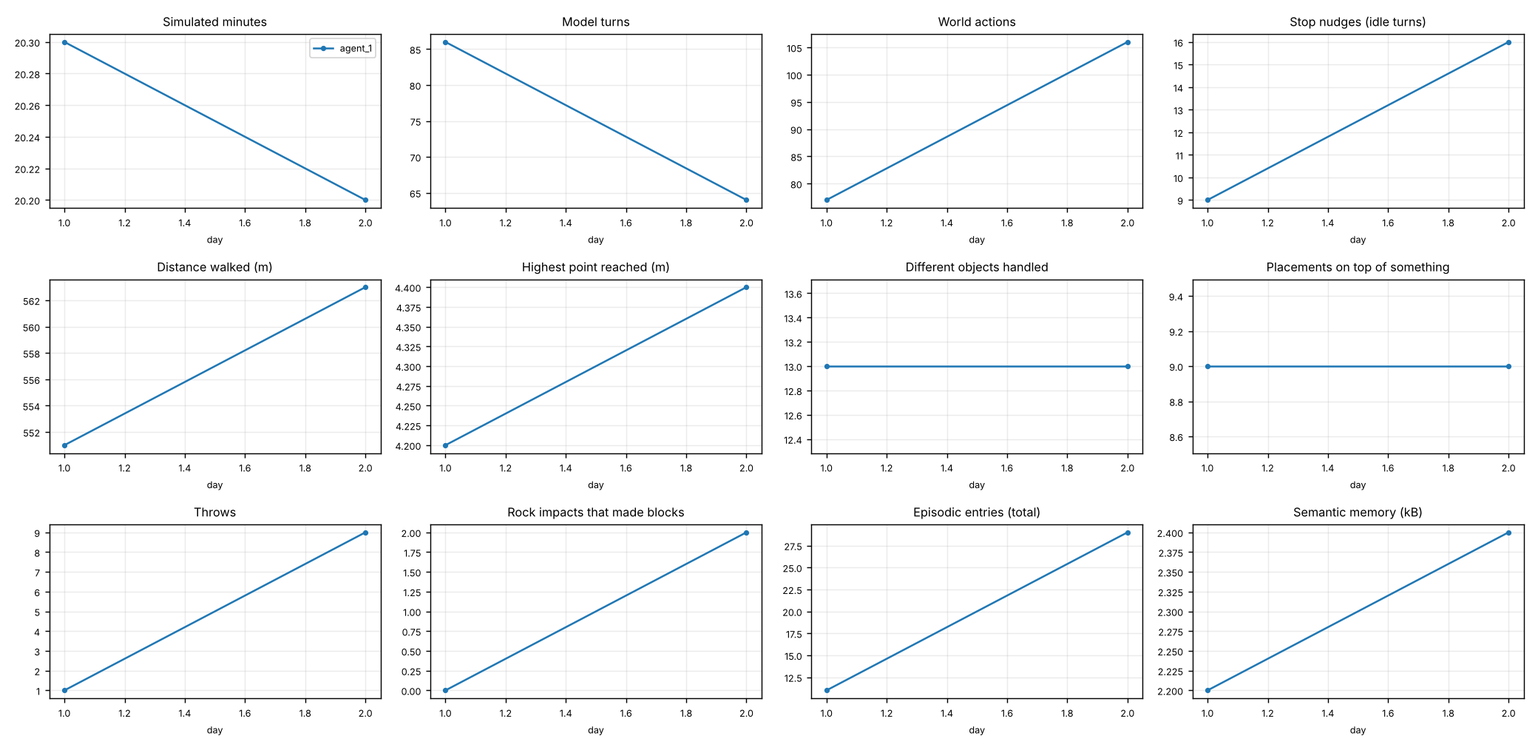
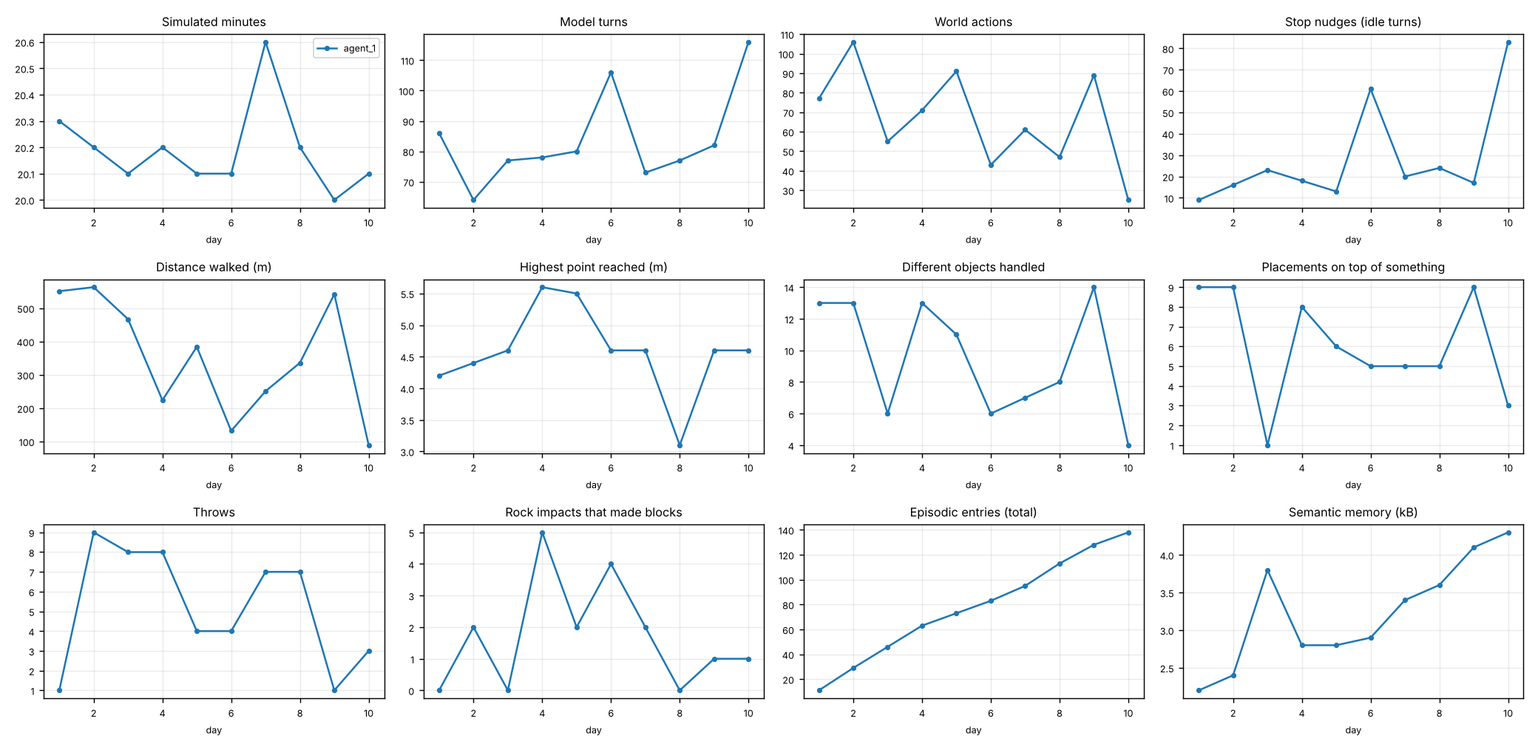
Update trial agent evolution report to 10 days
Claude-Session: https://claude.ai/code/session_01F6htCL5qaHSLW1cPSXXm9X

diff --git a/runs/pilot-20261024-005431/evolution/evolution.md b/runs/pilot-20261024-005431/evolution/evolution.md
@@ -1,18 +1,26 @@
 # How the agents' free play evolves: `pilot-20261024-005431`
 
-2 free-play days across 1 agents. Every number comes from replaying the logged actions; memory figures are the agent's own files at the end of each day.
+10 free-play days across 1 agents. Every number comes from replaying the logged actions; memory figures are the agent's own files at the end of each day.
 
 ![Evolution](evolution.png)
 
 ## agent_1
 
 - First rock impact that made blocks: day 2
-- First time on top of the Spire: never
+- First time on top of the Spire: day 5
 
 | day | min | turns | actions | idle | walked m | max height | objects | stacked | throws | impacts | episodic | semantic kB | Spire | ended |
 |---|---|---|---|---|---|---|---|---|---|---|---|---|---|---|
 | 1 | 20.3 | 86 | 77 | 9 | 551 | 4.2 | 13 | 9 | 1 | 0 | 11 | 2.2 |  | session time up |
 | 2 | 20.2 | 64 | 106 | 16 | 563 | 4.4 | 13 | 9 | 9 | 2 | 29 | 2.4 |  | session time up |
+| 3 | 20.1 | 77 | 55 | 23 | 467 | 4.6 | 6 | 1 | 8 | 0 | 46 | 3.8 |  | session time up |
+| 4 | 20.2 | 78 | 71 | 18 | 224 | 5.6 | 13 | 8 | 8 | 5 | 63 | 2.8 |  | session time up |
+| 5 | 20.1 | 80 | 91 | 13 | 384 | 5.5 | 11 | 6 | 4 | 2 | 73 | 2.8 | yes | session time up |
+| 6 | 20.1 | 106 | 43 | 61 | 132 | 4.6 | 6 | 5 | 4 | 4 | 83 | 2.9 |  | session time up |
+| 7 | 20.6 | 73 | 61 | 20 | 251 | 4.6 | 7 | 5 | 7 | 2 | 95 | 3.4 |  | session time up |
+| 8 | 20.2 | 77 | 47 | 24 | 336 | 3.1 | 8 | 5 | 7 | 0 | 113 | 3.6 |  | session time up |
+| 9 | 20.0 | 82 | 89 | 17 | 542 | 4.6 | 14 | 9 | 1 | 1 | 128 | 4.1 |  | session time up |
+| 10 | 20.1 | 116 | 25 | 83 | 89 | 4.6 | 4 | 3 | 3 | 1 | 138 | 4.3 |  | session time up |
 
 ### Diary (episodic summaries added each day)
 
@@ -48,3 +56,288 @@
 - Finished a 9-block tower with a stair and 2-block column, using all 12 blocks.
 - Reorganized semantic memory before the reset.
 - Threw the Ring at speed 30 and got no debris.
+
+**Day 3**
+- Confirmed the world reset again and threw Block_4 gently.
+- Threw a block at a placed block and it sailed past without a knock.
+- Threw Block_4 point-blank at Block_12 and it still passed through untouched.
+- Threw the Rock at Block_12 and it stopped against it without moving it.
+- Walked east to the island edge and was stopped at x≈32.
+- Probed the west and south edges of the island.
+- Freed myself from a stuck spot and found the north edge near z=-32.
+- Rewrote semantic memory into a clean, consolidated form.
+- Threw the Rock at speed 30 at Block_12 and it just landed on top.
+- Climbed to the summit of Peak and found nothing there.
+- Placed Block_3 on the summit of Peak.
+- Threw Block_3 off Peak and it traveled about 9 units.
+- Placed Block_3 with a 45-degree yaw to test rotation.
+- Tested whether a rotated block has a wider footprint by placing Block_5 beside it.
+- Carried the Ring to Peak and set it on top of Block_3.
+- Threw the Rock at speed 30 hoping for debris and got none.
+- Threw the Rock steeply downward at speed 30 and got no debris again.
+
+**Day 4**
+- New session: world reset again, same layout. Observed only; nothing new tried.
+- Threw the Rock flat east at speed 30 from Hill_2 and got 2 ImpactBlocks; found a debris recipe.
+- Picked up both ImpactBlocks and stacked them into a 2-piece tower at (26,*,-8).
+- Threw the Rock flat from low ground at speed 30: 8.6 units, no debris. Debris seems to need a drop from height or a longer flight.
+- Threw the Rock east from Peak summit at speed 30 and got 4 ImpactBlocks; launch height seems to drive debris count.
+- Threw the Rock from Peak summit at speed 20: another 4 ImpactBlocks, so speed is not the key; 10 debris pieces now exist near (26,0.4,12).
+- Built a small 2-piece debris tower at (22,*,12) on the Peak slope (first place failed Occupied by terrain, retried 0.5 higher worked).
+- Debris tower at (22,*,12) now 5 pieces tall (y up to ~3.1); some pickups return NoBlock for no clear reason, just pick another piece.
+- Debris tower at (22,*,12) is now 7 pieces tall (top ~3.9).
+- Fetched the Rock and threw it again from Peak summit east at speed 25 to farm more debris (result not yet checked).
+- My Rock throw hit the debris tower and knocked it apart; learned ImpactBlocks are movable by the Rock.
+- Threw an ImpactBlock east at speed 20 and it disappeared from the world.
+- Rewrote semantic memory into a clean consolidated form with a Debris section.
+- Stood on a block atop Peak and threw the Rock: only 2 debris, so height doesn't scale the count (looks random 2-4).
+- Cleaned semantic memory: merged the height-doesn't-matter correction into the Debris recipe.
+- Another summit Rock throw (dir 1,0.1,-0.4) gave 4 more debris; ~14 pieces made this session with no cap seen. Memory files updated before reset.
+- Carried an ImpactBlock to Peak summit and placed it on top of Block_3, mixing big and small material.
+
+**Day 5**
+- New session: world reset again, same layout; reviewed memory and observed only.
+- Threw the Rock flat east from Peak summit and got 4 ImpactBlocks again.
+- Placed one ImpactBlock on the Peak slope at (23,*,9); first try was Occupied, 0.7 higher worked.
+- Stacked three ImpactBlocks into a tower at (23,*,9), top at y~2.07.
+- Capped the debris tower at (23,*,9) with the Ring.
+- Threw the Ring at the debris tower and it passed through, leaving the tower intact.
+- Tried to climb the Spire mesa with a stair block and reached its east edge but could not walk onto it.
+- Built a 6-block staircase and climbed onto the Spire mesa; the top is empty.
+- Threw the Rock west from the Spire top and got just 1 ImpactBlock at the island rim.
+- Rewrote semantic memory cleanly before the reset, adding a Climbing section.
+
+**Day 6**
+- New session: world reset again, same layout; observed only.
+- Threw Rock from Peak summit with upward angle (1,0.4,0) speed 30: landed ~(29,-0.3,12), only 1 ImpactBlock; flat throws seem better (2-4).
+- Threw Rock south from Peak summit (0,0.1,1) speed 30: 4 ImpactBlocks near (12,0.3,26); direction doesn't matter, flat works.
+- Built a 4-piece debris tower at (12,*,25.5) on flat ground south of Peak (z=22 was Occupied by the slope).
+- Capped the debris tower at (12,*,25.5) with the Rock; it holds.
+- Placed Block_8 on top of the Rock-capped debris tower at (12,*,25.5): debris, rock and block stack together.
+- Dismantled the cap, threw Rock from Peak at the 4-piece debris tower: top piece knocked off, 3 new ImpactBlocks spawned, lower 3 stayed.
+- Threw the Rock point-blank south at the tower; it vanished from the world (lost for this session) along with one ImpactBlock.
+- Rebuilt the tower with Block_8 on top of 3 debris pieces; session wrapped up, Rock lost until reset.
+- Consolidated semantic memory before reset (flat throws any direction, tower stacking, Rock-loss warning).
+
+**Day 7**
+- New session: world reset again, same layout; observed only.
+- Threw the Rock west from Peak summit and got 2 ImpactBlocks.
+- Stacked the two new ImpactBlocks into a tower at (3,*,12) on the Peak slope.
+- Capped the debris tower with Block_8 and hit it with the Rock; the tower did not move.
+- Swapped the cap for the Ring and hit the tower with the Rock: nothing toppled.
+- Threw Block_8 at 45 degrees from the Peak summit and it flew ~17 units.
+- Threw Block_8 at slope 0.6 from the summit and it flew ~17.8 units, about the same as at 45 degrees.
+- Threw the Rock north at slope 0.7 from the summit and got 2 ImpactBlocks ~15 away.
+- Stacked the two new ImpactBlocks into a tower at (12,*,-4.5) on Hill_2.
+- Capped the Hill_2 debris tower with the Rock.
+- Picked up the Ring from the tower to compare its throw range; reset arrived before throwing.
+- Threw the Ring at 45 degrees from the summit and it disappeared from the world.
+
+**Day 8**
+- New session: world reset again, same layout; observed only.
+- Picked up Block_4 and placed it at (-0.2,2.5,-18); simple routine, nothing new learned.
+- Threw Block_12 at 45 degrees (dir 0,1,1) speed 20 from low ground (-9.2,2,-16): landed ~13 away on Hill_3 at (-9.2,3.9,-3.1). Arcs from low ground reach ~13, beyond flat 9-11.
+- Updated semantic memory with the 45-degree low-ground arc range (~13) and noted Rock-capped towers hold.
+- Threw Block_4 at 45 degrees speed 40 from (-0.2,1.8,-15.5): landed ~13.3 away, same as speed 20. Speed confirmed irrelevant for range.
+- Threw Block_4 at slope 0.5 (dir 0,0.5,1) speed 20 from (-0.2,2.5,-5): landed 13.1 away, identical to the 45-degree throws. Range seems capped ~13 for slopes 0.5-1 from low ground.
+- Threw Block_4 at slope 0.25 speed 20 from (-0.2,2.6,5) toward -z: landed 11.1 away. So low-ground range: slope 0.25 ~11, slopes 0.5 and 1.0 ~13.
+- Consolidated semantic memory: folded throw range-by-slope findings into the Throwing section.
+- Threw Block_4 east from (28,0,0) toward the island edge: it stopped at x=32 (the bound) instead of vanishing. Edge acts as a wall for blocks; vanishing items (Rock, Ring, ImpactBlocks) must have another cause.
+- Updated semantic memory: bounds are a wall for thrown Blocks; reframed the vanishing-items open question.
+- Threw the Ring east (dir 1,0.7,0) from (27,0.2,4.7) toward the edge: it vanished, whereas Block_4 stopped at x=32 the same way. Ring vanishes where a Block stays; maybe it slips past/under the bound. Ring lost until reset.
+- Threw the Rock east (dir 1,0.7,0) from (28,-0.1,-6.3) toward the edge: it vanished with no debris. Confirmed: Ring and Rock vanish when thrown into the edge/bound while Blocks stay. Rock and Ring both lost until reset.
+- Consolidated semantic memory with an Edge rule (Ring/Rock vanish at the bound, Blocks stay).
+- With the Rock lost, stacked Block_6 on Block_5 on Hill_1 at (10,*,-15.6) to make a 2-block tower.
+- Added Block_3 to the Hill_1 tower at (10,*,-15.6): now 3 blocks.
+- Verified by observe that the 3-block tower at (10,*,-15.6) stands at y 2.8/3.8/4.8. Session state: Rock and Ring lost, tower built; memory files up to date.
+- Added Block_12 to the Hill_1 tower at (10,*,-15.6): now 4 blocks.
+- Added Block_10 to the Hill_1 tower at (10,*,-15.6): now 5 blocks (top ~y 6.8). Session also: range-by-slope throws, Ring and Rock vanish at the bound (Blocks stay). Memory files up to date before reset.
+
+**Day 9**
+- New session: world reset, same layout; picked up Block_4, nothing new learned.
+- Placed Block_4 at (-3,3,-10); routine, no new findings. Memory is up to date.
+- Stacked Block_12 on Block_4 at (-3,*,-10): 2-block tower. Nothing new learned.
+- Added Block_3 to the tower at (-3,*,-10): now 3 blocks (verified 2 by observe first). Nothing new learned.
+- Added Block_5 to the tower at (-3,*,-10): now 4 blocks. Nothing new learned.
+- Added Block_6 to the tower at (-3,*,-10): now 5 blocks (top ~y 7.7). Nothing new learned.
+- Observed: 5-block tower at (-3,*,-10) verified standing, y 2.69..6.69 at 1.0 spacing.
+- Added Block_10 to the tower at (-3,*,-10): now 6 blocks (top ~y 7.7). Nothing new learned.
+- Tower at (-3,*,-10) reached 7 blocks. Placing 8.7 high from ground failed OutOfRange; placed Block_7 as a step at (-1,*,-10), jumped on it, then placement worked.
+- Tried an 8th block at y~9.7 from the step: OutOfRange again. A single step is not enough above 7 blocks; would need a 2-block stair.
+- Built a 1-2 stair (x=0.5 and x=-1 columns) beside the tower and placed the 8th block at (-3,~9.7,-10). Stair of 1,2 gives enough reach for 8 blocks.
+- Placed the 9th block (Block_11) at (-3,~10.7,-10) from the 2-high stair while jumping. All 12 blocks used. Got wedged between tower and step once; move_to south freed me.
+- Verified 9-block tower (top y 10.69). Threw Rock from summit west-ish (-1,0.1,0.3) speed 25: 2 ImpactBlocks near (0,2.3,15.5).
+- Picked up ImpactBlock_1 to try capping the 9-block tower at (-3,*,-10) via the stair; reset arrived first. Session: built 9-block tower with 1-2 stair, learned step/stair/jump-place reach tricks.
+- Tried to cap the 9-block tower with an ImpactBlock at y 11.4 from the 2-high stair: OutOfRange. 9 blocks (top 10.7) is the reach limit with this stair.
+
+**Day 10**
+- New session: world reset, same layout; observed only.
+- Threw Rock from summit toward Spire (-1,0.1,-0.3) speed 25: landed ~(1,3,8.7), 2 ImpactBlocks. Consistent with recipe; nothing new.
+- Stacked the two new ImpactBlocks into a 2-piece tower at (5,*,9) on the Peak slope; both places succeeded first try.
+- Capped the (5,*,9) debris tower with the Rock; place succeeded.
+- Observed: Rock-capped 2-piece debris tower at (5,*,9) stands (y 3.71/4.11/4.61). Session otherwise routine.
+- Threw Block_10 from (-5,2.4,5) at slope 0.5 toward the Rock-capped tower: landed only ~7.5 away at (1.7,3.3,7.7), short of the tower (rising Peak slope cuts the arc). Tower untouched.
+- Got wedged against my own tower at (5,*,9) (move_to did nothing); jump + move_to away freed me. Threw Block_10 from the summit at the tower: landed beside it at (6.1,4.3,9.5), tower untouched. Blocks can't topple towers.
+- Placed Block_10 on top of the Rock cap at (5,5.4,9): tower is now debris, debris, Rock, Block.
+- Verified by observe: 4-part mixed tower at (5,*,9) stands (debris 3.71, 4.11, Rock 4.61, Block_10 5.41).
+- Session wrap-up: built Rock+Block-capped debris tower at (5,*,9), learned slope-short throws and the wedge fix again. Memory up to date before reset.
+
+### Rules written down, by day
+
+Extracted automatically from the notes: each rule-like line, when it first appeared, revisions, and whether it later left the notes.
+
+| day | new | revised | left notes | held at end of day |
+|---|---|---|---|---|
+| 1 | 18 | 4 | 5 | 13 |
+| 2 | 16 | 9 | 14 | 15 |
+| 3 | 16 | 10 | 9 | 22 |
+| 4 | 16 | 13 | 22 | 16 |
+| 5 | 9 | 13 | 8 | 17 |
+| 6 | 8 | 12 | 6 | 19 |
+| 7 | 29 | 8 | 25 | 23 |
+| 8 | 7 | 7 | 8 | 22 |
+| 9 | 3 | 0 | 0 | 25 |
+| 10 | 1 | 0 | 0 | 26 |
+
+**Day 1: new rules**
+- [belief] move_to near a block then pickup(block position) works; place(position) drops held item. *(left notes on day 1)*
+- [belief] Island bounds (move_to clamps): x -28..32, z -32..29. Start (0,1,-22). Terrain: Peak, Spire mesa, Hill_1..4. *(revised 4x; left notes on day 7)*
+- [belief] place has a short range (~5-6 units); OutOfRange means walk closer. Placing on an occupied spot fails; blocks stack if placed ~1 unit above another (they settle physically). *(left notes on day 1)*
+- [belief] Blocks stack with 1.0 spacing; 9-block towers are stable. *(revised 3x; left notes on day 4)*
+- [belief] A 6-block tower is stable, and placing from the ground at y up to 8 works from ~2.5 units away (reach isn't height-limited so far). *(left notes on day 1)*
+- [belief] Place reach is a 3D distance (~7 units max?): y=9 from 2.5 horizontal away failed OutOfRange; moving to ~1.7 horizontal and y=8.6 worked. For tall towers, stand right beside it. *(left notes on day 1)*
+- [belief] Blocks stack at 1.0 spacing (1.1 for side by side); 9-block towers stable. Tall towers: 1-high stair + 2-block column beside, place from the top. 12 blocks = 9 tower + 2 column + 1 stair. *(revised 4x; left notes on day 5)*
+- [mistake] place fails "Occupied" if target overlaps terrain or my body. Place ~0.6 higher, stand >=2 units away. *(revised 3x; left notes on day 4)*
+- [belief] Staircase climbing: each jump() + move_to onto a block adjacent and 1 higher works, so a 2-high column plus a 1-high stair lets me reach ~1 unit higher per column block. Fetch-and-stack total: all 12 blocks used (9 in tower, 2 as stairs, 1 as column). *(left notes on day 1)*
+- [belief] Loose: 12 unanchored 1x1x1 Blocks, a Ring (~24.9,0.7,4.7), a Rock (~16.5,2.6,-6.3). *(revised 2x; left notes on day 7)*
+- [belief] pickup needs me within ~1-2 units; one item held at a time. Occasional NoBlock: retry or pick another. *(revised 5x; left notes on day 7)*
+- [belief] move_to is near-instant, walks terrain, blocked by standing blocks/piles/cliffs (debris towers too). Climb 1-high: jump(), move_to top. Descending is free. *(revised 5x; left notes on day 7)*
+- [belief] place(pos) drops the held item. Fails with OutOfRange if the 3D distance is too large (about 5-7 units); walk closer. *(left notes on day 2)*
+- [belief] 12 blocks were enough for: 9-block tower at ~(3,*,-13), a 2-block column at (4.5,*,-12), and a stair at (5.7,*,-12). *(left notes on day 2)*
+- [belief] Haven't examined Ring or Rock (was walking to the Ring); try picking up and throwing them. *(left notes on day 2)*
+- [belief] Untested: throw tool, how high the tower can go, whether the world persists across sessions. *(left notes on day 2)*
+- [belief] pickup works on the Ring. throw({direction:[-1,0.5,0], speed:10}) sent the Ring ~9.5 units horizontally (landed on a hill, y 3.35). Direction need not be normalized. Distance grows with speed. *(left notes on day 2)*
+- [belief] Tower of 9 blocks stood to y=10.56 with no collapse. *(left notes on day 2)*
+
+**Day 2: new rules**
+- [belief] World resets each session (blocks/ring/rock back at original spots). Rock is pickup-able; throw([0,1,1], speed 15) sent it ~13 units forward (landed on Peak). *(left notes on day 2)*
+- [belief] Rock at speed 30 spawns 1-3 ImpactBlock debris (0.4 size, persist); speeds 12-25 none; blocks and Ring never do. *(revised 2x; left notes on day 4)*
+- [belief] A Block thrown at speed 30, dir [-1,0.3,0] flew ~12 units with no debris (debris seems tied to the Rock, or to a harder impact). *(left notes on day 2)*
+- [belief] Rock thrown gently (speed 12) made no debris, so debris likely needs a high-speed impact (speed 30 did it; the block at 30 didn't, so maybe Rock-specific too). *(left notes on day 2)*
+- [belief] Rock at speed 20 (dir [0,0.2,-1]) also made no debris; threshold, if any, is between 20 and 30 (or depends on landing/angle). *(left notes on day 2)*
+- [belief] Rock at speed 30 with flat angle [0,0.2,-1] also spawned debris (1 ImpactBlock). So debris is speed-driven (threshold between 20 and 30), count varies. Debris persists on the island. *(left notes on day 2)*
+- [belief] Rock at speed 25 made no debris; debris threshold is between 25 and 30 (speed 30 worked twice). *(left notes on day 2)*
+- [belief] Throw range is effectively capped ~11-15 units: a Block at speed 50 only went ~11 units, and no debris. Debris appears only for the Rock at speed ~30 (blocks never made any). *(left notes on day 2)*
+- [mistake] Wedged between a block/tower and mesa: jump(), then move_to away. Stand >=3 from bases. *(revised 4x; left notes on day 7)*
+- [belief] Ground placement failed at y=8.9 (6-block tower on a hill, top at 7.9). Fix: one step block beside the tower, move_to ~1.5 units from it, jump(), move_to its top; then place worked. *(left notes on day 2)*
+- [belief] place(pos) fails OutOfRange beyond ~6.5 units above my feet. Placing a block under me lifts me. *(revised 2x; left notes on day 4)*
+- [belief] World RESETS each session (builds and debris gone, Rock restored). Re-observe first. *(revised 3x; left notes on day 7)*
+- [belief] Direction need not be normalized. Range capped ~11-15 units regardless of speed (block at 50 ~11; speed 10 ~10.7; Ring at 10 ~9.5; Rock at 15 ~13). *(revised 1x; left notes on day 4)*
+- [hypothesis] Is debris Rock-specific? (try the Ring at 30). Try speed 27-28 for the exact threshold. *(left notes on day 3)*
+- [hypothesis] Can blocks be thrown to knock down a tower? Can I build something taller than 9-12 blocks (only 12 blocks exist; ImpactBlocks are 0.4 size and could be extra material)? *(left notes on day 3)*
+- [belief] Ring thrown at speed 30 went ~6.5 units (lands on hill) with no debris, so debris is Rock-only. *(left notes on day 3)*
+
+**Day 3: new rules**
+- [belief] Thrown block at speed 15, nearly flat, aimed at a block 5.5 units away: it passed the target without moving it (landed 4 units beyond). Either it flew over (thrown from head height) or no collision. Untested: aim lower/pitch down. Speed 10 flat throw went ~10.7 units. *(left notes on day 3)*
+- [belief] Point-blank throw (slightly downward, speed 15) at an adjacent block also left it untouched; the projectile passed through to 7 units beyond. Thrown blocks seem not to collide with other blocks, so knocking towers over by throwing doesn't work. (Standing blocks DO block my own move_to.) *(left notes on day 3)*
+- [belief] Rock thrown flat at speed 15 stopped dead against a placed block (landed just in front of it), and the block didn't budge. So the Rock collides with blocks but can't push them; earlier thrown blocks passed through. Placed blocks are effectively immovable by throws. *(left notes on day 3)*
+- [belief] Island edge: move_to toward x=40/60 stops at x≈31.9 (y≈-0.7, ground slopes down). Can't leave the island; boundary is ~32 on +x, further than the ±25 item spread. *(left notes on day 3)*
+- [belief] Edges (move_to clamps): +x ≈ 32, -x ≈ -28, +z ≈ 29 (y drops to ~-0.8 at edge). Island is roughly a 60-unit disc, slightly offset east. *(left notes on day 3)*
+- [belief] z edge ≈ -32 (y≈-0.7). Island ≈ x -28..32, z -32..29. Being stuck next to a block: jump() then move_to works again. *(left notes on day 3)*
+- [belief] Direction need not be normalized. Range ~10-15 regardless of speed. Blocks/Ring pass through placed blocks and debris, never make debris. Rock stops against placed blocks without moving them. *(revised 2x; left notes on day 7)*
+- [hypothesis] Can ImpactBlock debris be used as extra building material? *(left notes on day 4)*
+- [hypothesis] Does a Rock at speed 30 push a block? Is there anything off the island or at the Peak top? *(left notes on day 4)*
+- [belief] Rock at speed 30 thrown at a placed block from 4 units: block unmoved, no debris, Rock ended up resting on top of it. Placed blocks are immovable even at max speed. (Debris likely needs a long flight/terrain impact.) *(left notes on day 4)*
+- [belief] Peak summit (12,4.59,12) is reachable by move_to; nothing special there (no entities), just the highest ground. *(left notes on day 4)*
+- [belief] Block thrown flat at speed 20 from Peak's edge went ~9 units horizontally (landed on the downslope); range stays ~10 regardless of height/speed. *(left notes on day 4)*
+- [belief] place accepts a rotation (yaw 45 succeeded), but observe doesn't report rotation, so I can't verify its effect. *(left notes on day 4)*
+- [belief] Block spacing test: a block placed at 0.9 from a neighbour is Occupied, at 1.1 succeeds. A yaw-45 block did not widen its footprint (1.1 spacing still worked), so rotation appears to be ignored or purely cosmetic. Placed blocks rest ~0.5 above the surface they land on. *(left notes on day 4)*
+- [belief] Ring can be placed like a block (rests on top of a block at +0.6). Rock at speed 30 thrown upward-ish (pitch 0.2) landed only ~10 units away with no debris, so debris is not guaranteed at speed 30 (earlier throws that made debris were at other angles/targets). Debris-as-material remains untested. *(left notes on day 4)*
+- [belief] Rock at speed 30 thrown steeply down (pitch -0.5) into nearby terrain went only 2.7 units and made no debris. Debris so far only appeared on earlier long flights landing far away (maybe needs real flight time/distance); still unexplained. 0 of 3 speed-30 throws this session made debris. *(left notes on day 4)*
+
+**Day 4: new rules**
+- [belief] Debris recipe: Rock from (15,2.6,-6) thrown dir (1,0.1,0) speed 30 flew ~12 units and landed at (27,0.4,-6) making 2 ImpactBlocks (0.4). Nearly flat throw with long flight over the downslope seems to work; steep/short or upward throws don't. *(left notes on day 4)*
+- [belief] Debris can be picked up and placed, stacks at 0.4 spacing. No cap seen. A thrown ImpactBlock despawns. *(revised 3x; left notes on day 7)*
+- [belief] Two ImpactBlocks stack with 0.4 spacing (y 0.39 then 0.79). Debris is small-scale building material; each Rock throw yields ~2. *(left notes on day 4)*
+- [belief] Debris is not guaranteed: flat speed-30 throw from low ground (y 0.3) went 8.6 units and made none. The successful one started from a hill (y 2.6) and dropped to ground ~12 units away. Hypothesis: needs a longer/faster impact (height drop or distance >~10). *(left notes on day 4)*
+- [belief] Recipe: Rock thrown FLAT (dir y ~0.1) speed 20-30 from Peak summit (12,4.6,12), any compass direction, lands ~14 away and makes 2-4 pieces (random). Upward angle (y 0.4) gave only 1. Low-ground throws give none; Spire-top west gave 1. Re-fetch the Rock each time. *(revised 4x; left notes on day 7)*
+- [belief] Speed 20 from Peak summit also landed ~14 away and made 4 debris. So speed barely matters; the key is long flight from the summit (earlier speed-20/25 failures were from lower/short spots). Peak summit throw east = reliable 4 ImpactBlocks per throw (10 exist now). *(left notes on day 4)*
+- [mistake] pickup NoBlock can happen even at ~1.5 range when the target is wedged next to the Rock/other pieces; approach from another side (or pick a different piece). Place works from ~3 away, so no need to walk to the tower. *(left notes on day 4)*
+- [belief] Debris towers are NOT stable against throws: a Rock thrown from Peak summit east (speed 25) hit my 7-piece ImpactBlock tower at (22,*,12) and scattered it into pieces at x 20.8-22.6 (no new debris). Unlike the 1x1 Blocks (immovable), ImpactBlocks are pushed by the Rock. Keep debris towers out of the Rock's flight path; use summit throws toward x>24 for farming. *(left notes on day 4)*
+- [belief] A thrown ImpactBlock vanished from the world (despawn). Don't throw debris you want. *(revised 1x; left notes on day 5)*
+- [belief] place works up to ~6.5 away (stand ~3 away). If Occupied, place 0.5-0.7 higher or move to flat ground. Rotation is cosmetic. *(revised 2x; left notes on day 7)*
+- [belief] Blocks stack at 1.0 spacing; 9-block towers stable. Placed Blocks immovable. Ring, Rock and Block all stack on debris towers (4 debris + Rock + Block worked). *(revised 2x; left notes on day 7)*
+- [belief] Debris is dynamic: a Rock thrown through the tower scattered it. Keep towers out of the flight path. *(left notes on day 5)*
+- [hypothesis] Does launch height scale debris count (tower-top throw)? Is there a cap on debris? *(left notes on day 4)*
+- [hypothesis] Is there a cap on debris? Why do some pickups fail with NoBlock? *(revised 1x; left notes on day 5)*
+- [belief] Launch height is NOT the driver of count: from 1 block above the summit (y 5.6), dir (1,0.1,0.4) speed 25 made only 2 pieces (landing (26,-0.2,17)). Counts seen: 2,2,4,4,2 — likely random 2-4 per big throw. Ignore my earlier "height scales count" guess; what matters is a long flight (~14) onto low ground. *(left notes on day 4)*
+- [belief] Summit throw dir (1,0.1,-0.4) speed 25 landed ~14 away near (24.5,1,5.5) and made 4 pieces (counts seen: 2,2,4,4,2,4). No sign of a debris cap with 14+ pieces made in one session. Debris may rest on/near the Ring at (24.9,0.7,4.7). *(left notes on day 5)*
+
+**Day 5: new rules**
+- [belief] A Ring placed on top of a 3-piece debris tower stays put (y~2.35 on top of 2.07). Debris towers hold the Ring fine. *(left notes on day 5)*
+- [mistake] throw with empty hands -> ThrowFailed:EmptyHands. *(revised 1x; left notes on day 7)*
+- [belief] Only the Rock disturbs debris towers. Thrown Ring/blocks pass through. A thrown ImpactBlock despawns. *(revised 1x; left notes on day 6)*
+- [belief] Spire mesa (x -16.5..-11.5, top y 3.52) isn't walkable from the east: a stair block at (-10.7,2.9,8) lets me reach (-11.5,3.73,8) but move_to inward then does nothing. Not tried: other sides, 2-block stair. *(left notes on day 5)*
+- [belief] Each jump+move_to gains ~1 height. Spire climbed with 6 blocks: columns of 1,2,3 blocks in a row (x=-8.8,-9.9,-11.0 at z=7); a single stair block is not enough. *(revised 2x; left notes on day 7)*
+- [belief] Rock thrown from Spire top (5.5) west (-1,0.1,0.3) speed 25 landed ~15 away at the island edge (-28.9,-0.3,12.5) and made only 1 ImpactBlock (id ImpactBlock_10) at x -27.9. Landing at the island rim/ground below y 0 gives fewer pieces. Peak summit east remains the best farm. *(left notes on day 5)*
+- [belief] Terrain "position" is the BOX CENTER; top = y + size/2. Peak top 4.59 (summit (12,4.59,12)); Spire spans x -16.5..-11.5, z 5.5..10.5, y 2.0..5.52. Nothing on either summit. *(left notes on day 7)*
+- [hypothesis] Why do some pickups fail with NoBlock? Does the Rock sinking at the rim (y<0) lose debris? Can other sides of Peak/Spire host better throws? *(left notes on day 6)*
+- [belief] move_to from the Spire top to ground below works directly (no fall damage or blocking); descending is free, only climbing needs stairs. *(left notes on day 6)*
+
+**Day 6: new rules**
+- [belief] Upward-angled Rock throw (1,0.4,0) from Peak gave only 1 debris; keep throws flat (dir y ~0.1) for 2-4. *(left notes on day 6)*
+- [belief] Flat Peak throws work in any direction (south gave 4 debris near (12,0.3,26)). *(left notes on day 6)*
+- [belief] Peak's foot reaches ~z=23 on the south side; build on flat ground at z>=25 (e.g. (12,*,25.5)). *(revised 1x; left notes on day 7)*
+- [belief] Debris towers (0.4 pieces) block walking like blocks; Rock can be placed as a cap. *(left notes on day 6)*
+- [hypothesis] Does a mixed tower (Ring/Block on top) topple as a unit under a Rock hit? *(revised 1x; left notes on day 7)*
+- [belief] Only the Rock disturbs debris towers; a hit from Peak knocked off just the top piece and spawned 3 new debris (hits make debris too). *(revised 1x; left notes on day 7)*
+- [mistake] Rock thrown flat toward the south rim from 3 away vanished for the whole session. Don't throw the Rock toward the rim at close range; keep it recoverable. *(revised 1x; left notes on day 7)*
+- [hypothesis] Why do some pickups fail with NoBlock? *(left notes on day 7)*
+
+**Day 7: new rules**
+- [belief] Island bounds (move_to clamps): x -28..32, z -32..29. Start (0,1,-22). Terrain: Peak, Spire mesa, Hill_1..4.
+- [belief] Terrain "position" is the BOX CENTER; top = y + size/2. Peak top 4.59 (summit (12,4.59,12)); Spire spans x -16.5..-11.5, z 5.5..10.5, y 2.0..5.52. Nothing on either summit.
+- [belief] Loose: 12 unanchored 1x1x1 Blocks, a Ring (~24.9,0.7,4.7), a Rock (~16.5,2.6,-6.3).
+- [belief] World RESETS each session (builds and debris gone, Rock and Ring restored). Re-observe first. *(revised 1x)*
+- [belief] Peak's foot reaches ~z=23 on the south side; build on flat ground at z>=25 (e.g. (12,*,25.5)).
+- [belief] pickup needs me within ~1-2 units; one item held at a time. Occasional NoBlock: retry or pick another.
+- [belief] move_to is near-instant, walks terrain, blocked by standing blocks/piles/cliffs (debris towers too). Climb 1-high: jump(), move_to top. Descending is free.
+- [belief] place works up to ~6.5 away (stand ~3 away). If Occupied, place 0.5-1 higher (on slopes the piece settles down fine) or move to flat ground. Rotation is cosmetic. *(revised 1x)*
+- [mistake] Wedged between a block/tower and mesa (move_to silently does nothing): jump(), then move_to away. Stand >=3 from bases.
+- [mistake] throw with empty hands -> ThrowFailed:EmptyHands.
+- [mistake] write_note overwrites the whole file; never write placeholders. Use append_note only for lines that belong at the end. Only call tools that exist. *(revised 2x)*
+- [belief] Blocks stack at 1.0 spacing; 9-block towers stable. Placed Blocks immovable. Ring, Rock and Block all stack on debris towers (4 debris + Rock + Block worked).
+- [belief] Each jump+move_to gains ~1 height. Spire climbed with 6 blocks: columns of 1,2,3 blocks in a row (x=-8.8,-9.9,-11.0 at z=7); a single stair block is not enough.
+- [belief] Direction need not be normalized. Blocks/Ring pass through placed blocks and debris, never make debris. Rock stops against placed blocks without moving them. *(revised 1x)*
+- [mistake] Rock thrown flat toward the south rim from 3 away vanished for the whole session. Don't throw the Rock toward the rim at close range; keep it recoverable. *(left notes on day 7)*
+- [belief] Recipe: Rock thrown from Peak summit (12,4.6,12), any compass direction, flat (y ~0.1) or arced (y 0.7), speed 20-30, lands ~14-15 away and makes 1-4 pieces (random). Steep y 0.4 east once gave 1; Spire-top west gave 1. Low-ground throws give none. Re-fetch the Rock each time; keep throws away from the rim. *(revised 2x)*
+- [belief] Debris can be picked up and placed, stacks at 0.4 spacing. No cap seen. *(revised 1x)*
+- [belief] Rock hit on a bare debris tower knocks off the top piece and spawns ~3 new debris. A tower capped with a Block or the Ring did not move at all. Caps protect. A Rock-capped tower also held (placed, not hit). *(revised 2x)*
+- [hypothesis] Why do some pickups fail with NoBlock?
+- [hypothesis] Does a Rock hit on the Ring-capped or Rock-capped debris tower topple it? *(left notes on day 7)*
+- [belief] A Ring-capped debris tower also survived a flat Rock throw (the Rock landed on top of it). Capped towers seem safe from Rock hits. *(left notes on day 7)*
+- [hypothesis] Does a Rock-capped tower survive? (untested) *(left notes on day 8)*
+- [belief] Range is set by slope (dir y/horizontal), NOT speed (20 vs 40 identical). From low ground: slope 0.25 ~11, 0.5 ~13, 1.0 ~13 (cap ~13). From Peak summit arcs ~15-18. Use slope >=0.5 for distance. *(revised 4x)*
+- [belief] Ground off the Peak foot to the east is below 0 (y~-0.3 at x=28); still walkable.
+- [hypothesis] Does an arced Rock throw from the summit make debris at a longer range? *(left notes on day 7)*
+- [belief] (Debris addendum) Arced Rock throw from summit, dir y 0.7, also made 2 debris at ~15 range. So arcs work; debris count looks random 1-4 regardless of angle. *(left notes on day 7)*
+- [mistake] (Throwing addendum) Ring thrown at 45 degrees from Peak summit (dir (1,1,0) speed 30) vanished from the world (like thrown ImpactBlocks). Don't throw the Ring if I want it back; Blocks and the Rock survive. *(left notes on day 7)*
+- [mistake] Things can vanish when thrown: the Rock (flat toward the south rim from 3 away), the Ring (45 degrees from the summit), and any thrown ImpactBlock. Blocks have survived. Only throw what I can afford to lose; keep the Rock recoverable. *(left notes on day 8)*
+- [hypothesis] Why do some thrown items vanish? (maybe fall out of bounds below the island) *(left notes on day 8)*
+
+**Day 8: new rules**
+- [belief] (Throwing addendum) From low ground, arcs with slope 0.5 and 1.0 both land ~13 away at speed 20 or 40: range looks capped ~13 for any moderate arc; only launch height (Peak) extends it. *(left notes on day 8)*
+- [belief] (Throwing addendum) Low-ground range by slope: 0.25 -> ~11, 0.5 -> ~13, 1.0 -> ~13 (same at speed 20 or 40). *(left notes on day 8)*
+- [belief] The bounds act as a wall for thrown Blocks too (a Block thrown east stopped at x=32, still present). *(left notes on day 8)*
+- [hypothesis] Why do the Rock, Ring and ImpactBlocks vanish when thrown? Not simply the island edge (Blocks stop at the bound). Maybe small/light items are culled or fall through terrain. *(left notes on day 8)*
+- [belief] (Open ideas addendum) The Ring thrown east toward the edge vanished while a Block thrown the same way stayed at x=32. Vanishing seems tied to small/thin items reaching the bound, not to Blocks. Untested: Rock thrown toward an edge. *(left notes on day 8)*
+- [belief] Edge rule: a Block thrown into the island bound stops there (x=32) and stays. The Ring and the Rock thrown into the bound VANISH (no debris). Never throw them toward the rim; ImpactBlocks also vanished that way. Items lost until the reset. *(revised 1x)*
+- [hypothesis] Why exactly do non-Block items vanish at the bound (fall through, culled)? Does a Rock thrown at the bound from the summit still vanish?
+
+**Day 9: new rules**
+- [belief] Tall towers: placing above ~6 blocks from ground fails OutOfRange. Place a block as a step beside the tower, jump onto it, then place (gains ~1 reach; worked for the 7th block).
+- [belief] One step is enough for the 7th block but not the 8th; a 1,2 stair (columns beside tower, climb by jump+move_to) works for the 8th.
+- [belief] Placing while airborne (jump then place) from the 2-high stair reached a 9th tower block at y~10.7. Don't walk between a tower and its stair when 1 apart: wedge; move_to along z frees you.
+
+**Day 10: new rules**
+- [belief] Throws toward a rising slope (Peak flank) land short (~7.5 at slope 0.5); throw from the summit down for range.
